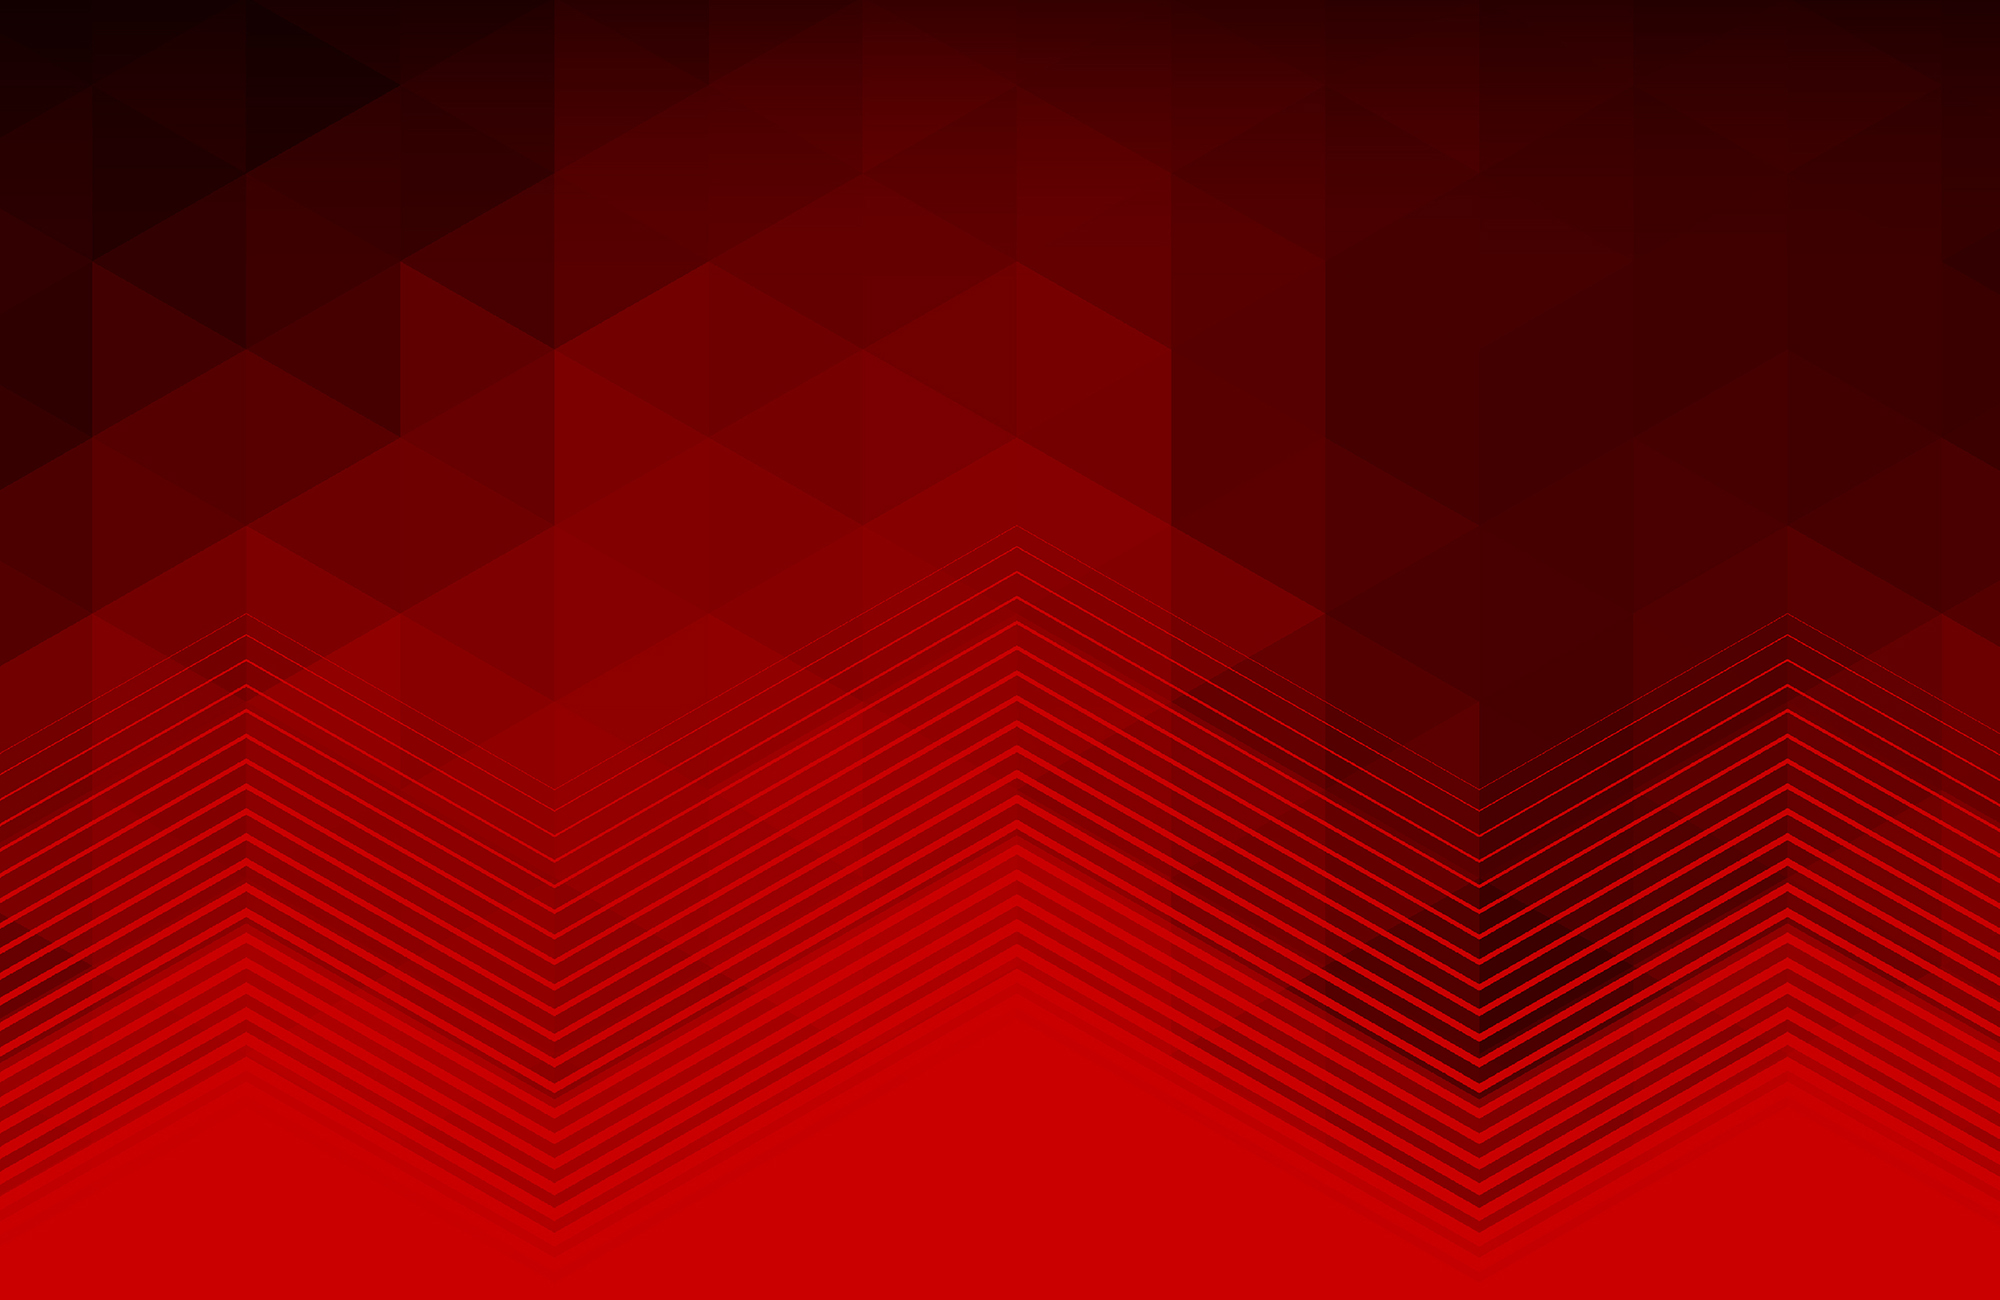
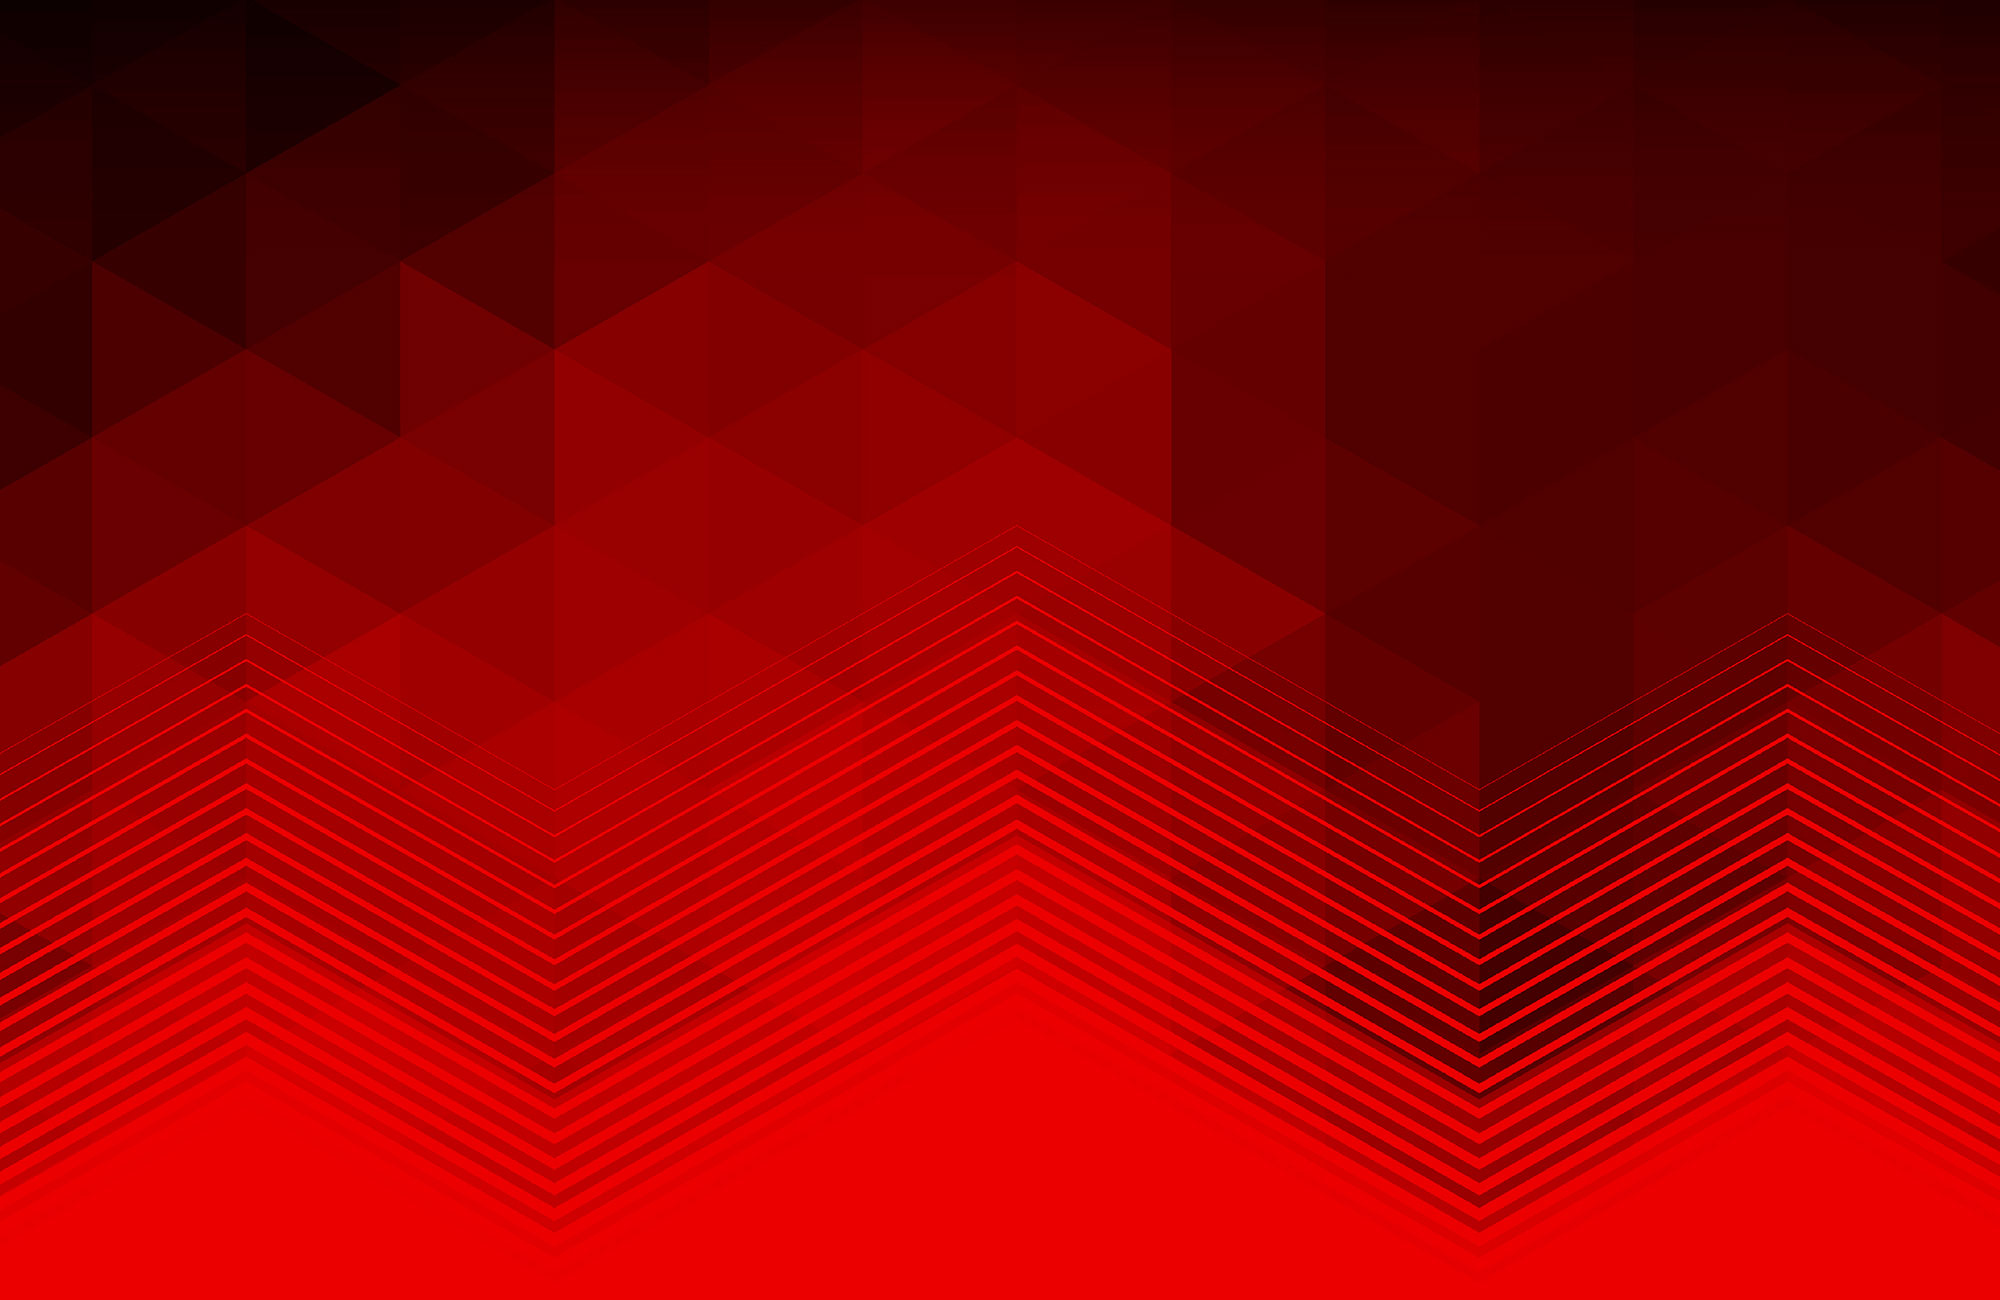
Minor fixes and adjustements

diff --git a/themes/dw/assets/src/sass/pages/_home.scss b/themes/dw/assets/src/sass/pages/_home.scss
@@ -82,9 +82,8 @@
 		}
 
 		background-image: url('../img/bg-home--sm.jpg');  /* [2] */
-		background-color:  #db000f;
-		background-position: center -120px;
-		background-attachment: fixed;
+		background-color: #eb0000;
+		background-position: center top;
 		background-repeat: no-repeat;
 		background-size: 100%;
 
@@ -92,7 +91,7 @@
 			// Medium screens
 			background-image: url('../img/bg-home--md.jpg');  /* [2] */
 			background-position: center top;
-			background-color:  #db000f;
+			//background-color:  #eb0000;
 		}
 		@include media-breakpoint-up(lg) {
 			// Large screens

diff --git a/themes/dw/inc/theme-functions.php b/themes/dw/inc/theme-functions.php
@@ -254,7 +254,7 @@ function dynamic_get_before_and_after_posts(){
 
 		$html .= '<article class="entry entry--latest prev ' . $to_show . '">' . dw_posted_on($previous->ID)
 					. '<h2 class="entry__title"><a href="'. get_the_permalink($previous->ID) .'">' . __($previous->post_title, 'dw') . '</a></h2>
-					<a href="' . get_the_permalink($previous->ID) . '" class="entry__read-more">Ver notícia</a>
+					<a href="' . get_the_permalink($previous->ID) . '" class="entry__read-more">'. __('View Post','dw') .'</a>
 					<a href="' . get_the_permalink($previous->ID) . '" class="arrow"><i class="icon-left-open-big"></i></a>
 				</article><!-- entry -->';
 	}
@@ -262,7 +262,7 @@ function dynamic_get_before_and_after_posts(){
 	if( !empty( $next ) ){
 		$html .=  '<article class="entry entry--latest next show">' . dw_posted_on($next->ID)
 					. '<h2 class="entry__title">' . __($next->post_title, 'dw') . '</h2>
-					<a href="' . get_the_permalink($next->ID) . '" class="entry__read-more">Ver notícia</a>
+					<a href="' . get_the_permalink($next->ID) . '" class="entry__read-more">'. __('View Post','dw') .'</a>
 					<a href="' . get_the_permalink($next->ID) . '" class="arrow"><i class="icon-right-open-big"></i></a>
 				</article><!-- entry -->';
 	}
@@ -408,7 +408,7 @@ function dynamic_get_all_services( $posts_to_exclude = array() ){
 }
 
 function dw_get_all_sponsors(){
-	
+
 	$args = [
 
 		'post_type' => 'sponsor',

diff --git a/themes/dw/single.php b/themes/dw/single.php
@@ -6,7 +6,7 @@
  *
  * @package Dynamic_Winners
  */
- 
+
 get_header();
 ?>
 
@@ -49,19 +49,19 @@ get_header();
 						<div class="col-sm-12 col-md-9 col-md-offset-2 col-lg-6 col-lg-offset-6 box-right">
 							<div class="slider">
 								<?php while( $latest_posts->have_posts() ) : $latest_posts->the_post(); ?>
-									
+
 									<div class="slider__item">
 										<article class="entry entry--latest">
 											<p class="entry__date"><?php the_date('j F Y'); ?></p>
 											<h2 class="entry__title"><?php the_title(); ?></h2>
-											<a href="" class="entry__read-more">Ver notícia</a>
+											<a href="" class="entry__read-more"><?php _e('View Post','dw'); ?></a>
 										</article><!-- entry -->
 									</div><!-- slider__item -->
 								<?php
 								endwhile;
 								wp_reset_postdata();
-								?>		
-			
+								?>
+
 							</div><!-- slider -->
 						</div><!-- col -->
 					</div><!-- row -->

diff --git a/themes/dw/single-service.php b/themes/dw/single-service.php
@@ -60,7 +60,7 @@ $thumbnail_large = wp_get_attachment_image_src($main_image_id, 'full');
 									<div class="slider__item">
 										<article class="entry entry--latest">
 											<h2 class="entry__title"><a href="<?php echo  get_the_permalink(); ?>"><?php the_title(); ?></a></h2>
-											<a href="<?php echo  get_the_permalink(); ?>" class="entry__read-more">Ver mais</a>
+											<a href="<?php echo  get_the_permalink(); ?>" class="entry__read-more"><?php _e('View More','dw'); ?></a>
 										</article><!-- entry -->
 									</div><!-- slider__item -->
 								<?php

diff --git a/themes/dw/template-parts/home-grid-post.php b/themes/dw/template-parts/home-grid-post.php
@@ -13,7 +13,7 @@ $thumbnail_medium = wp_get_attachment_image_src($main_image_id, 'grid-medium');
 			<div class="dotdotdot">
 				<p class="entry__text card-text"><?php echo the_content(); ?></p>
 			</div><!-- dotdotdot -->
-			<a href="<?php echo esc_url( get_permalink()); ?>" class="entry__read-more">Ver mais</a>
+			<a href="<?php echo esc_url( get_permalink()); ?>" class="entry__read-more"><?php _e('View More','dw'); ?></a>
 		</div><!-- card-block -->
 	</article><!-- card -->
 </div><!-- slider__item -->

diff --git a/themes/dw/single-athlete.php b/themes/dw/single-athlete.php
@@ -43,9 +43,7 @@ $athlete_info = array(
 					<h1 class="athlete__name"><?php echo get_field('name'); ?></h1>
 					<?php if( isset($biography['position']  ) ) : ?>
 						<ul class="athlete__main-features">
-							<?php foreach( $biography['position'] as $position ){ ?>
-								<li><?php echo $position; ?></li>
-							<?php } ?>
+							<li><?php echo implode(' / ', __($biography['position'], 'dw' )); ?></li>
 						</ul>
 					<?php endif; ?>
 					<ul class="social">

diff --git a/themes/dw/template-parts/home-grid-service.php b/themes/dw/template-parts/home-grid-service.php
@@ -5,7 +5,7 @@
 			<div class="dotdotdot">
 				<p class="entry__text card-text"><?php the_content(); ?></p>
 			</div><!-- dotdotdot -->
-			<a href="<?php echo get_the_permalink(); ?>" class="entry__read-more">Ver mais</a>
+			<a href="<?php echo get_the_permalink(); ?>" class="entry__read-more"><?php _e('View More','dw'); ?></a>
 		</div><!-- card-block -->
 	</article><!-- card -->
 </div><!-- slider__item -->
